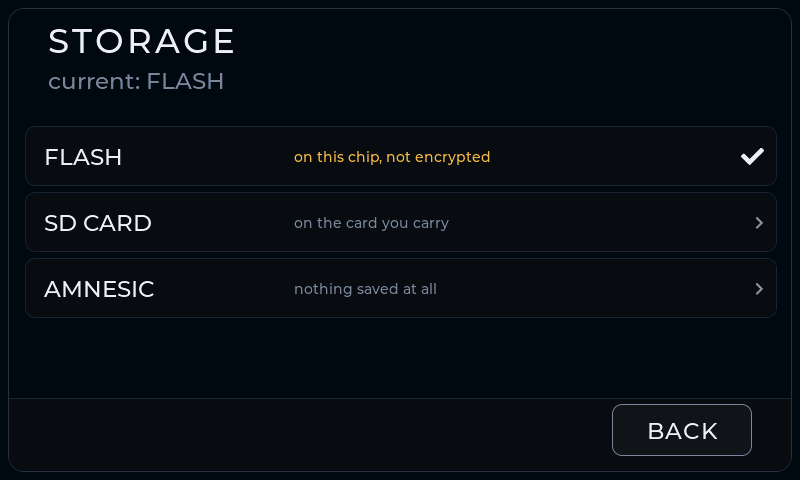
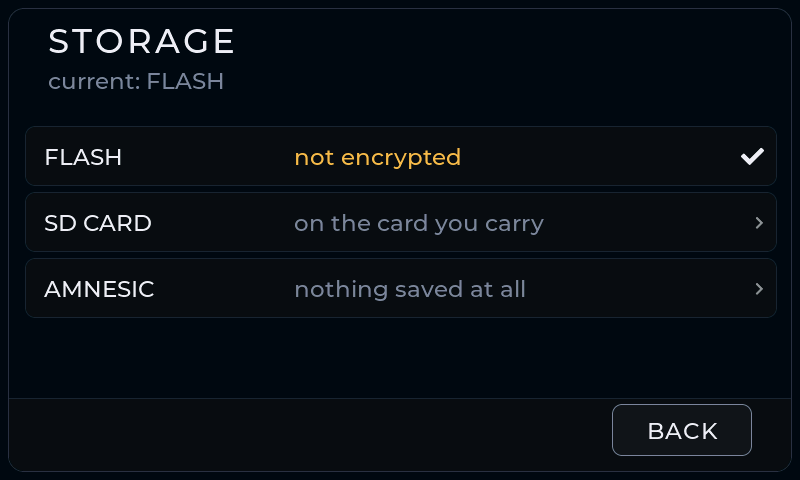
the settings page stops explaining itself in the smallest type it owns
Off the bench: no more tiny text anywhere, and it is in every button on the
settings page, in dark grey.

It was. wt_row_wide hardcoded wt_font14() for the sub-line, so every teaching
line the page has -- "not real bitcoin", "opens your real keys", "amount in
sats or BTC" -- sat at the size the kit keeps for chip labels and chevrons.

Two things had blessed it, which is why no gate ever said a word:

  docs/house-rules.md:60  "font14 is metadata: chip labels, row sublines,
                           unit suffixes"
  sim/overlapcheck.c      FIT carved row sublines out on the strength of
                           that line

The carve-out exempted the page's entire body copy. Both are rewritten:
metadata is a MARK -- a chip label, a unit suffix, a chevron -- and a sentence
is never one, whatever box it sits in.

The rungs are 14, 23, 28 and 34. There is no 18 and adding one is a font
rebuild across four scripts, so the sub-line goes to font23, and four more
readable sentences on settings screens go with it: the address-type card's
notes, an overlay's BACK label, the unchecked-paper warning above an erase,
and the caption beside the erase button.

What goes wrong at font23 is not a rung, it is an ELLIPSIS. A sub-line is
pinned to one line with LV_LABEL_LONG_DOT, so copy too long for its lane
loses its second half and says nothing about it -- and the first frame after
the change shipped "on this chip, not encr..." with every gate green.
[…]

Changed region(s): [[0.375, 0.4375, 0.6875, 0.5], [0.3438, 0.5938, 0.6562, 0.625], [0.3438, 0.3125, 0.625, 0.3438]]

diff --git a/sim/overlapcheck.c b/sim/overlapcheck.c
@@ -768,11 +768,17 @@ static char s_fit_kind[OC_FIT_MAX][8];
 static char s_fit_txt[OC_FIT_MAX][96];
 static int  s_fit_n;
 
-// Only where font14 is a fault. The house rules keep it for chip labels, row
-// sublines and unit suffixes, and a fit helper handed a chip-sized box is doing
-// exactly its job -- "dust attack" in a 110px caution chip is not the bug. A
+// Only where font14 is a fault. The house rules keep it for chip labels and
+// unit suffixes -- MARKS -- and a fit helper handed a chip-sized box is doing
+// exactly its job: "dust attack" in a 110px caution chip is not the bug. A
 // BODY that fell to font14 is, and so is a pill: a button in the smallest type
 // the device owns is the shape the pill comment rejects outright.
+//
+// Row sub-lines used to be on the exempt list here and in the house rules, and
+// they were the wrong thing to exempt: every teaching line on the settings page
+// is a row sub-line, and the page came off the bench as text nobody could read.
+// They are font23 now, and what goes wrong at that size is an ellipsis rather
+// than a rung -- which is check 9, CUT.
 //
 // 300 and 240 are read off the kit, not guessed: wt_why_block bodies are 344
 // wide and the narrowest real body column is 330, while the action row's own
@@ -938,6 +944,60 @@ static void oc_check_wall(const char *tag)
              t, (int)(wall->vis.x2 - wall->vis.x1 + 1),
              (int)(wall->vis.y2 - wall->vis.y1 + 1));
     oc_report_one(tag, sig, detail);
+}
+
+// ---- 9. CUT: a sub-line that has dropped words -----------------------------
+//
+// Row sub-lines are pinned to one line with LV_LABEL_LONG_DOT, so copy too long
+// for its lane does not overflow -- it ELLIPSISES, and says nothing. That is
+// silent in exactly the way wt_note_fit is silent: the source looks correct,
+// every box stays inside every other box, and the screen ships with the second
+// half of a sentence replaced by three dots.
+//
+// It went unseen while the sub-line was font14, because at that size almost
+// nothing reached its lane's edge. Lifting it to font23 -- which is what these
+// lines are, teaching copy the owner has to read -- made the lanes tight, and
+// the settings storage row rendered "on this chip, not encr..." in the first
+// frame after the change with every gate green.
+//
+// The measurement is taken in kiss_theme.c as the label is BUILT, and arrives
+// here through a sink, for the same reason the fit strings do: LVGL rewrites
+// the label's text to insert the dots, so a gate walking the finished tree
+// finds a string that measures exactly one lane wide and no evidence at all.
+//
+// An ellipsis here means CUT THE COPY. The lane cannot grow -- it is what the
+// label's 250px cap and the value chip leave behind, and both of those are load
+// bearing. Shrinking the type back is the move this check exists to stop.
+#define OC_CUT_MAX 24
+static char s_cut_txt[OC_CUT_MAX][96];
+static int  s_cut_want[OC_CUT_MAX];
+static int  s_cut_lane[OC_CUT_MAX];
+static int  s_cut_n;
+
+static void oc_cut_sink(const char *txt, int want, int lane)
+{
+    if (s_cut_n >= OC_CUT_MAX) return;
+    snprintf(s_cut_txt[s_cut_n], sizeof s_cut_txt[0], "%s", txt ? txt : "");
+    s_cut_want[s_cut_n] = want;
+    s_cut_lane[s_cut_n] = lane;
+    s_cut_n++;
+}
+
+__attribute__((constructor))
+static void oc_cut_install(void) { wt_cut_set_sink(oc_cut_sink); }
+
+static void oc_check_cut(const char *tag)
+{
+    char sig[192], detail[320];
+    for (int i = 0; i < s_cut_n; i++) {
+        snprintf(sig, sizeof sig, "CUT|%s", s_cut_txt[i]);
+        snprintf(detail, sizeof detail,
+                 "CUT      sub-line \"%s\" wants %dpx of a %dpx lane, so it "
+                 "ships ellipsised -- cut the copy, the lane cannot grow",
+                 s_cut_txt[i], s_cut_want[i], s_cut_lane[i]);
+        oc_report_one(tag, sig, detail);
+    }
+    s_cut_n = 0;
 }
 
 static void oc_check_colour_roles(const char *tag)
@@ -1173,6 +1233,7 @@ void oc_check(const char *tag)
     oc_check_bare(tag);
     oc_check_wall(tag);
     oc_check_fit(tag);
+    oc_check_cut(tag);
 }
 
 int oc_report(void)

diff --git a/main/kiss_theme.c b/main/kiss_theme.c
@@ -248,8 +248,21 @@ static wt_fit_sink_t s_fit_sink;
 void wt_fit_set_sink(wt_fit_sink_t fn) { s_fit_sink = fn; }
 #define WT_FIT_GAVE_UP(kind_, txt_, w_, h_) \
     do { if (s_fit_sink) s_fit_sink((kind_), (txt_), (w_), (h_)); } while (0)
+
+static wt_cut_sink_t s_cut_sink;
+void wt_cut_set_sink(wt_cut_sink_t fn) { s_cut_sink = fn; }
+// Measured before the label is handed the string, because LVGL replaces the
+// text with the dotted form and the original is unrecoverable afterwards.
+static void wt_sub_measure(const char *txt, const lv_font_t *f, int lane)
+{
+    if (!s_cut_sink || !txt || !*txt) return;
+    lv_point_t sz;
+    lv_text_get_size(&sz, txt, f, 0, 0, LV_COORD_MAX, LV_TEXT_FLAG_NONE);
+    if (sz.x > lane) s_cut_sink(txt, (int)sz.x, lane);
+}
 #else
 #define WT_FIT_GAVE_UP(kind_, txt_, w_, h_) ((void)0)
+#define wt_sub_measure(txt_, f_, lane_) ((void)0)
 #endif
 
 #define SUB_ROW_H 22        // font14 line + breathing room, for two-line pills
@@ -2038,7 +2051,17 @@ lv_obj_t *wt_row_wide(lv_obj_t *scr, int y, const wt_wide_t *r)
 {
     const bool inert = r->kind == WT_WIDE_INERT;
     const lv_font_t *lf = wt_font23();
-    const lv_font_t *sf = wt_font14();
+    // The sub-line is the page's TEACHING copy -- "not real bitcoin", "what
+    // opens your real keys", "amount in sats or BTC" -- and it sat at font14
+    // on every row of the settings page because the house rules listed row
+    // sublines as metadata and the FIT gate carved them out on the strength of
+    // that line. Both were wrong, and it came off the bench as text nobody
+    // could read. Metadata is a unit suffix or a chevron. A sentence is not.
+    //
+    // font23, the next rung up: there is no 18, and adding one is a font
+    // rebuild across four scripts. The lane is narrower than the copy at this
+    // size, which is a reason to cut words, never to go back down.
+    const lv_font_t *sf = wt_font23();
     const lv_font_t *vf = r->vf ? r->vf : wt_font23();
     const lv_font_t *cf = wt_font14();       // chevrons, at the size every row
                                              // on the device already wears
@@ -2179,6 +2202,7 @@ lv_obj_t *wt_row_wide(lv_obj_t *scr, int y, const wt_wide_t *r)
         int sx = WT_WIDE_LX + WT_WIDE_LW;    // 268: where the label's box ends
         int sw = lane_end - sx;
         if (sw < 40) sw = 40;
+        wt_sub_measure(r->sub, sf, sw);
         lv_obj_t *s = wt_lbl(row, r->sub, sx, 0, sf, subc);
         lv_obj_set_width(s, sw);
         lv_obj_set_height(s, lv_font_get_line_height(sf));
@@ -2218,30 +2242,6 @@ lv_obj_t *wt_row_wide_help(lv_obj_t *row, lv_event_cb_t cb, void *ud)
     lv_obj_t *chip = wt_help_chip(row, 0, 0, WT_MUT, cb, ud);
     lv_obj_align(chip, LV_ALIGN_LEFT_MID, WT_WIDE_LX + lw + 10, 0);
     return chip;
-}
-
-void wt_row_wide_sub_add(lv_obj_t *row, const char *txt, lv_color_t col)
-{
-    lv_obj_t *s = wt_tagged(row, WT_SUB_TAG);
-    if (!s || !txt || !*txt) return;
-    const lv_font_t *f = wt_font14();
-
-    lv_obj_update_layout(s);
-    int x0 = lv_obj_get_x(s), y0 = lv_obj_get_y(s);
-    int lane = lv_obj_get_width(s);
-
-    // The first fact hands back whatever it is not using. These are two
-    // separate facts, not a sentence, so they are measured and spaced rather
-    // than joined -- a separator between them would be punctuation doing the
-    // job of a gap.
-    lv_point_t sz;
-    lv_text_get_size(&sz, lv_label_get_text(s), f, 0, 0, LV_COORD_MAX,
-                     LV_TEXT_FLAG_NONE);
-    if (sz.x < lane) { lv_obj_set_width(s, sz.x); lane = sz.x; }
-
-    lv_obj_t *b = wt_lbl(row, txt, x0 + lane + 16, y0, f, col);
-    lv_obj_set_height(b, lv_font_get_line_height(f));
-    lv_label_set_long_mode(b, LV_LABEL_LONG_DOT);
 }
 
 // ---- overlays (see kiss_theme.h) ----

diff --git a/main/i18n_tables.c b/main/i18n_tables.c
@@ -702,14 +702,14 @@ static const char *const tbl_en[STR_N] = {
     [STR_I_ROW_DENOM] = "Denomination",
     [STR_I_DENOM_SUB] = "amount in sats or BTC",
     [STR_I_EXPL_SIGNER] = "Each network and address type has its own keys.",
-    [STR_I_WAYSIN_SHORT] = "what opens your real keys",
-    [STR_I_HIST_SHORT] = "settings and what it has seen",
+    [STR_I_WAYSIN_SHORT] = "opens your real keys",
+    [STR_I_HIST_SHORT] = "what it has seen",
     [STR_I_AUDIT_SUB] = "what this signer can prove",
     [STR_I_EXPL_SECURITY] = "Until a duress mark is set, any mark opens your real keys.",
-    [STR_I_PERSIST_DEAD_SUB] = "AMNESIC storage keeps nothing",
+    [STR_I_PERSIST_DEAD_SUB] = "storage is AMNESIC",
     [STR_I_PERSIST_DEAD_VAL] = "UNAVAILABLE",
-    [STR_I_STORE_FLASH_SUB] = "on this chip, not encrypted",
-    [STR_I_STORE_FLASH_ENC_SUB] = "on this chip, encrypted",
+    [STR_I_STORE_FLASH_SUB] = "not encrypted",
+    [STR_I_STORE_FLASH_ENC_SUB] = "encrypted",
     [STR_I_STORE_SD_SUB] = "on the card you carry",
     [STR_I_STORE_AMN_SUB] = "nothing saved at all",
     [STR_I_EXPL_BACKUP] = "Only a check on this device proves your paper is right.",
@@ -723,12 +723,12 @@ static const char *const tbl_en[STR_N] = {
     [STR_I_DEVICE_T] = "THIS DEVICE",
     [STR_I_ERASE_B] = "This signer forgets its keys. Your paper words and passphrase are the only way back. The next screen asks again and needs a held press.",
     [STR_I_ERASE_BTN] = "ERASE SEED WORDS",
-    [STR_I_ERASE_CAP] = "nothing else on this page is destructive",
+    [STR_I_ERASE_CAP] = "nothing else here is destructive",
     [STR_I_BIP_T] = "Address types",
     [STR_I_BIP_CLOSE] = "CLOSE",
-    [STR_I_BIP_44_NOTE] = "oldest, costs the most",
+    [STR_I_BIP_44_NOTE] = "oldest, costs most",
     [STR_I_BIP_49_NOTE] = "older apps accept it",
-    [STR_I_BIP_84_NOTE] = "costs the least, use this",
+    [STR_I_BIP_84_NOTE] = "cheapest, use this",
     [STR_I_POP_CHIP] = "on this chip",
     [STR_I_POP_NOTHING] = "nothing saved",
     [STR_I_POP_KEEP] = "kept after power off",

diff --git a/main/kiss_settings.c b/main/kiss_settings.c
@@ -910,7 +910,10 @@ static void help_open_cb(lv_event_t *e)
     const int NOTE[3] = { STR_I_BIP_44_NOTE, STR_I_BIP_49_NOTE,
                           STR_I_BIP_84_NOTE };
 
-    const lv_font_t *hf = wt_font23(), *nf = wt_font14(),
+    // nf is the note beside each type, and the note is the whole answer this
+    // card exists to give -- "which one" as much as "what are they". It was
+    // font14, which is the size this page keeps for marks.
+    const lv_font_t *hf = wt_font23(), *nf = wt_font23(),
                     *pf = wt_font_mono23();
     const int hh = lv_font_get_line_height(hf);
     const int rh = lv_font_get_line_height(pf);
@@ -1401,7 +1404,7 @@ static void do_wipe(void *ud)
         lv_obj_t *okl = lv_label_create(ok);
         lv_label_set_text(okl, tr(STR_C_BACK));
         lv_obj_set_style_text_color(okl, INK_COL, 0);
-        lv_obj_set_style_text_font(okl, wt_font14(), 0);
+        lv_obj_set_style_text_font(okl, wt_font23(), 0);   // a button, never font14
         lv_obj_center(okl);
         return;
     }
@@ -1495,7 +1498,7 @@ static void erase_screen(void)
             char warn[96];
             snprintf(warn, sizeof warn, "%s  %s", LV_SYMBOL_WARNING,
                      tr(STR_I_WORDS_UNVERIFIED));
-            lv_obj_t *l = wt_lbl(s_scr, warn, 0, 0, wt_font14(), WT_WARN);
+            lv_obj_t *l = wt_lbl(s_scr, warn, 0, 0, wt_font23(), WT_WARN);
             lv_obj_align(l, LV_ALIGN_TOP_MID, 0, 200);
         }
     }
@@ -2141,8 +2144,8 @@ static void tab_noundo(void)
     lv_obj_center(bl);
 
     lv_obj_t *cap = wt_lbl(card, tr(STR_I_ERASE_CAP), 24 + bw + 14, 0,
-                           wt_font14(), WT_DIM);
-    lv_obj_set_y(cap, byy + (WT_ACTION_H - lv_font_get_line_height(wt_font14())) / 2);
+                           wt_font23(), WT_MUT);
+    lv_obj_set_y(cap, byy + (WT_ACTION_H - lv_font_get_line_height(wt_font23())) / 2);
 }
 
 // The group the strip is pointing at, drawn into whatever pane is current.

diff --git a/main/kiss_theme.h b/main/kiss_theme.h
@@ -328,6 +328,17 @@ void      wt_note_fit(lv_obj_t *l, const char *txt, int w, int h);
 typedef void (*wt_fit_sink_t)(const char *kind, const char *txt,
                               int w, int h);
 void wt_fit_set_sink(wt_fit_sink_t fn);
+
+// The same idea for a sub-line that has been ELLIPSISED. A sub-line is pinned
+// to one line with LV_LABEL_LONG_DOT, so copy too long for its lane does not
+// overflow -- it silently loses its second half, and nothing on the screen or
+// in the source says so.
+//
+// It has to be measured HERE, as the label is built. LVGL rewrites the label's
+// own text to insert the dots, so by the time a gate walks the tree the
+// original string is gone and what is left measures exactly one lane wide.
+typedef void (*wt_cut_sink_t)(const char *txt, int want, int lane);
+void wt_cut_set_sink(wt_cut_sink_t fn);
 #endif
 lv_obj_t *wt_section(lv_obj_t *scr, const char *txt, int x, int y);  // column caption
 
@@ -780,9 +791,6 @@ lv_obj_t *wt_row_wide_ctrl(lv_obj_t *row);
 // defines. Shrinks the label's box to its text first, so the chip lands after
 // the words instead of inside the label's 250px box.
 lv_obj_t *wt_row_wide_help(lv_obj_t *row, lv_event_cb_t cb, void *ud);
-// A SECOND fact in the sub lane, 16px after the first, in its own colour. For
-// the one row that states two: "encryption OFF" beside "radio HELD".
-void wt_row_wide_sub_add(lv_obj_t *row, const char *txt, lv_color_t col);
 
 // ---- overlays: the popover and the help card ---------------------------
 // A full screen scrim with a floating box on it. The scrim is black at

diff --git a/docs/house-rules.md b/docs/house-rules.md
@@ -57,9 +57,9 @@ Rules:
    budget given away in all 21 locales. That is a third of the room, and a third
    of the room is the difference between font23 and font14.
 
-   **font14 is metadata: chip labels, row sublines, unit suffixes. Nothing an
-   owner has to READ is ever font14.** It has now been reported from the bench
-   three separate times, and the third was not a `wt_body_font2` budget at all
+   **font14 is metadata: chip labels, unit suffixes, chevrons. MARKS. Nothing
+   an owner has to READ is ever font14.** It has now been reported from the
+   bench four separate times, and the third was not a `wt_body_font2` budget at all
    — it was the SIGNED screen's "what to do next" line, the single most
    important sentence on that screen, set through `wt_note` in a 48px box it
    could not fit at any larger size.
@@ -72,6 +72,23 @@ Rules:
    filename that is already on screen in font28 directly below it, which the
    copy rule says to cut anyway; cutting it took the line from font14 to font28
    with no layout change at all.
+
+   **"row sublines" used to be on that exempt list and it was the fourth
+   report.** Every teaching line on the settings page is a row subline — "not
+   real bitcoin", "opens your real keys", "amount in sats or BTC" — so the
+   carve-out exempted the page's entire body copy, in `wt_row_wide` and in the
+   FIT gate both, and it came back from the bench as *"no more tiny text
+   anywhere"*. A subline is a SENTENCE and sits at font23.
+
+   What goes wrong at font23 is not a rung, it is an **ellipsis**: a subline is
+   pinned to one line with `LV_LABEL_LONG_DOT`, so copy too long for its lane
+   loses its second half and says nothing about it. LVGL rewrites the label's
+   own text to insert the dots, so a gate walking the finished tree finds a
+   string that measures exactly one lane wide and no evidence at all — which is
+   why `overlapcheck`'s **CUT** check measures in `kiss_theme.c` as the label is
+   built and reports through a sink, the same shape FIT uses. An ellipsis there
+   means cut the copy: the lane is what the label's 250px cap and the value chip
+   leave behind, and both of those are load bearing.
 
    **font14 is a BUG in a body, not a translation being long.** It was reported from the bench as "WHY IS THE TEXT
    SO SMALL, LITERALLY, I KEEP ASKING" — about the confirm screen for replacing
@@ -254,7 +271,7 @@ printed and do NOT fail: font bytes are cheap next to deleting a glyph a
 half-written screen is waiting for.
 
 `check_screen_coverage.py` answers the question the others cannot: **which
-screens has nothing ever looked at.** overlapcheck asks eight questions per
+screens has nothing ever looked at.** overlapcheck asks nine questions per
 STOP, so a screen with no stop is a screen with no opinion attached. It reports
 two kinds:
 
@@ -290,9 +307,9 @@ Two harness numbers, both measured, neither about the device: a drag needs
 `release()`. At `pump(4)` the lift is seen but the next press is folded into
 it, so strokes merge and fall through.
 
-`overlapcheck` asks eight questions per stop: TEXT, CONTENT, GROWTH, CLIPPED,
-ROLE, **BARE**, **WALL** and **FIT**. The first two of those three are rule 1
-above, enforced; the third is the font14 rule:
+`overlapcheck` asks nine questions per stop: TEXT, CONTENT, GROWTH, CLIPPED,
+ROLE, **BARE**, **WALL**, **FIT** and **CUT**. The first two of those four are
+rule 1 above, enforced; the last two are the font14 rule and what replaced it:
 
 - **BARE** — a wide paragraph and no framed element at all.
 - **WALL** — a wide paragraph where every frame on the screen is a box drawn
@@ -304,8 +321,15 @@ above, enforced; the third is the font14 rule:
   looks like a bug in the source, and this has come off the bench three separate
   times. They report it now. Only where the size is a CHOICE — a body at least
   300 wide and 36 tall, or a pill at least 240 — because font14 in a caution
-  row's 24px subline is the box deciding, not the copy, and that is the one
-  place the rules keep it.
+  row's 24px subline is the box deciding, not the copy.
+
+- **CUT** — a row subline that has been ELLIPSISED. Sublines are pinned to one
+  line, so copy too long for its lane loses its second half silently, and LVGL
+  rewrites the label's own text to insert the dots — so this is measured in
+  `kiss_theme.c` as the label is built and reported through a sink, exactly as
+  FIT is. It found four on the day it landed, all four on the settings page, all
+  four fixed by cutting words. The lane cannot grow: it is what the label's
+  250px cap and the value chip leave behind.
 
 Each has a shrink-only backlog (`OC_BARE_BACKLOG`, `OC_WALL_BACKLOG`,
 `OC_FIT_BACKLOG` in `sim/overlapcheck.c`) and the run prints how many are left.
